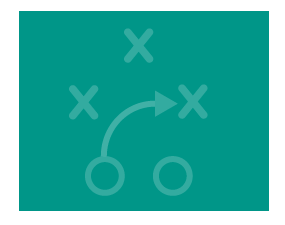
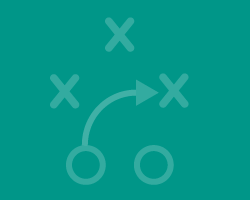
new coach home buttons

diff --git a/dashboard/static/dashboard/css/custom-dashboard.css b/dashboard/static/dashboard/css/custom-dashboard.css
@@ -15,6 +15,63 @@
 	padding-top: 15px;
 }
 
+.coach-button-container {
+	display: flex;
+	justify-content: space-between;
+	padding: 0px 20px 0px 40px;
+	margin: 20px 0px 40px 0px;
+}
+
+.coach-button-container a {
+	height: 100px;
+	width: 125px;
+	display: table;
+}
+
+.coach-button-container a p {
+	display: table-cell;
+	font-size: 18px;
+	color: white;
+	font-weight: bold;
+	text-align: center;
+	vertical-align: middle;
+}
+
+.coach-button-container a#create-formation-link {
+	background-image: url("/static/dashboard/images/create-formation-action-box.png");
+	background-size: cover;
+	background-repeat: no-repeat;
+	background-position: center center;
+}
+
+.coach-button-container a#create-play-link {
+	background-image: url("/static/dashboard/images/create-play-action-box.png");
+	background-size: cover;
+	background-repeat: no-repeat;
+	background-position: center center;
+}
+
+.coach-button-container a#create-quiz-link {
+	background-image: url("/static/dashboard/images/create-quiz-action-box.png");
+	background-size: cover;
+	background-repeat: no-repeat;
+	background-position: center center;
+}
+
+.coach-button-container a#groups-link {
+	background-image: url("/static/dashboard/images/groups-action-box.png");
+	background-size: cover;
+	background-repeat: no-repeat;
+	background-position: center center;
+}
+
+.coach-button-container a#analytics-link {
+	background-image: url("/static/dashboard/images/analytics-action-box.png");
+	background-size: cover;
+	background-repeat: no-repeat;
+	background-position: center center;
+}
+
 .no-border {
 	border: none;
 	border-style: hidden;
@@ -134,24 +191,32 @@ img.menu-icon {
   float: left;
 }
 
-.coach-home .secondary-content-area, .playbook .secondary-content-area, .edit-test .secondary-content-area{
-  width: 100%;
-  height: 290px;
-  border-left: 1px solid #777;
-  border-right: 1px solid #777;
-  border-bottom: 1px solid #777;
-  padding: 0px;
+.coach-home .secondary-content-area, 
+.playbook .secondary-content-area, 
+.edit-test .secondary-content-area {
+	width: 100%;
+	min-height: 200px;
+	max-height: 500px;
+	border-left: 1px solid #777;
+	border-right: 1px solid #777;
+	border-bottom: 1px solid #777;
+	padding: 0px;
 }
 
-.coach-home .top, .playbook .top{
-  margin-bottom: 20px;
+.coach-home .top, 
+.playbook .top {
+	margin-bottom: 20px;
 }
 
-.create-groups .action-boxes, .all-groups .action-boxes, .manage-groups .action-boxes {
+.create-groups .action-boxes, 
+.all-groups .action-boxes, 
+.manage-groups .action-boxes {
 	margin-bottom: 0px;
 }
 
-.create-groups .group-home, .all-groups .group-home, .manage-groups .group-home {
+.create-groups .group-home, 
+.all-groups .group-home, 
+.manage-groups .group-home {
 	margin-bottom: 1%;
 }
 
@@ -724,136 +789,55 @@ input.create-quiz{
   vertical-align: middle;
 }
 
-.alerts-list th{
-  color: #33691E;
-  text-align: center;
-  width: 50%;
-  height: 45px;
-  font-size: 22px;
-}
-
-.alerts-list th span{
-  padding-left: 5px;
-  padding-right: 5px;
-  padding-bottom: 2px;
-  border-bottom: 1px solid #33691E;
-}
-
-.alerts-list td{
-  text-align: center;
-  width: 50%;
-  height: 35px;
-  font-size: 18px;
-}
-
-.analytics-table-row{
-  width: 100%;
-  margin-top: 80px;
-}
-
-.analytics-table-row .table-header{
-  width: 100%;
-  font-size: 24px;
-  text-align: center;
-  margin-bottom: 20px;
-  line-height: 30px;
-  padding-left: 0px;
-  padding-right: 0px;
-  padding-top: 5px;
-  padding-bottom: 5px;
-
-}
-
-.analytics-table-row .table-header span{
-  padding-bottom: 5px;
-  padding-left: 15px;
-  padding-right: 15px;
-  border-bottom: 2px solid #777;
-}
-
-.analytics-graph{
-  height: 200px;
-}
-
-.coach-action-table {
-	width: 100%;
-}
-
-.coach-action-table td {
-	vertical-align: middle;
-}
-
-.coach-action-table td a {
-	display: block;
-	width: 100%;
-	height: 100%;
-	color: #FFF;
-}
-
-.coach-action-table td button{
-	width: 100%;
-	height: 100%;
-	background: none;
-	border: none;
-	padding: 0px;
-	font-size: 18px;
+.alerts-list th {
+	color: #33691E;
 	text-align: center;
-	font-weight: bold;
+	width: 50%;
+	height: 45px;
+	font-size: 22px;
 }
 
-.coach-action-table td.first {
-	background-color: #558B2F;
-	background-image: url("/static/dashboard/images/create-formation-action-box.png");
-	-webkit-background-size: cover;
-	-moz-background-size: cover;
-	-o-background-size: cover;
-	background-size: cover;
-	background-repeat: no-repeat;
-	background-position: center center;
+.alerts-list th span {
+	padding-left: 5px;
+	padding-right: 5px;
+	padding-bottom: 2px;
+	border-bottom: 1px solid #33691E;
 }
 
-.coach-action-table td.second {
-	background-color: #009688;
-	background-image: url("/static/dashboard/images/create-play-action-box.png");
-	-webkit-background-size: cover;
-	-moz-background-size: cover;
-	-o-background-size: cover;
-	background-size: cover;
-	background-repeat: no-repeat;
-	background-position: center center;
+.alerts-list td {
+	text-align: center;
+	width: 50%;
+	height: 35px;
+	font-size: 18px;
 }
 
-.coach-action-table td.third {
-	background-color: #FF9800;
-	background-image: url("/static/dashboard/images/create-quiz-action-box.png");
-	-webkit-background-size: cover;
-	-moz-background-size: cover;
-	-o-background-size: cover;
-	background-size: cover;
-	background-repeat: no-repeat;
-	background-position: center center;
+.analytics-table-row {
+	width: 100%;
+	margin-top: 40px;
 }
 
-.coach-action-table td.fourth {
-	background-color: #607D86;
-	background-image: url("/static/dashboard/images/groups-action-box.png");
-	-webkit-background-size: cover;
-	-moz-background-size: cover;
-	-o-background-size: cover;
-	background-size: cover;
-	background-repeat: no-repeat;
-	background-position: center center;
+.analytics-table-row .table-header {
+	width: 100%;
+	font-size: 24px;
+	text-align: center;
+	margin-bottom: 20px;
+	line-height: 30px;
+	padding-left: 0px;
+	padding-right: 0px;
+	padding-top: 5px;
+	padding-bottom: 5px;
+
 }
 
-.coach-action-table td.fifth {
-	background-color: #42A5F5;
-	background-image: url("/static/dashboard/images/analytics-action-box.png");
-	-webkit-background-size: cover;
-	-moz-background-size: cover;
-	-o-background-size: cover;
-	background-size: cover;
-	background-repeat: no-repeat;
-	background-position: center center;
+.analytics-table-row .table-header span {
+	padding-bottom: 5px;
+	padding-left: 15px;
+	padding-right: 15px;
+	border-bottom: 2px solid #777;
+}
+
+.analytics-graph {
+	height: 200px;
 }
 
 .playerbook .table-wrapper {

diff --git a/dashboard/templates/dashboard/coachhome.html b/dashboard/templates/dashboard/coachhome.html
@@ -5,46 +5,23 @@
 {% block content %}
 	<div class="coach-home">
 		<div class="content-container">
-			<div class="coach-action-row action-boxes">
-				<table class="coach-action-table">
-					<tbody>
-						<tr>
-							<td class="first">
-								<button onclick="clickButton(0)">
-									CREATE<br />FORMATION
-								</button>
-							</td>
-							<td class="blank">
-							</td>
-							<td class="second">
-								<button onclick="clickButton(1)">
-									CREATE<br />PLAY
-								</button>
-							</td>
-							<td class="blank">
-							</td>
-							<td class="third">
-								<button onclick="clickButton(2)">
-									CREATE<br />QUIZ
-								</button>
-							</td>
-							<td class="blank">
-							</td>
-							<td class="fourth">
-								<button onclick="clickButton(3)">
-									GROUPS
-								</button>
-							</td>
-							<td class="blank"></td>
-							<td class="fifth">
-								<button onclick="clickButton(4)">
-									ANALYTICS
-								</button>
-							</td>
-						</tr>
-					</tbody>
-				</table>
-			</div><!--coach-action-row-->
+			<div class="coach-button-container col-md-12">
+				<a href="/quiz/create_formation" id="create-formation-link">
+					<p>CREATE<br />FORMATION</p>
+				</a>
+				<a href="/quiz/create_play" id="create-play-link">
+					<p>CREATE<br />PLAY</p>
+				</a>
+				<a href="/quizzes/create" id="create-quiz-link">
+					<p>CREATE<br />QUIZ</p>
+				</a>
+				<a href="/groups" id="groups-link">
+					<p>GROUPS</p>
+				</a>
+				<a href="/analytics" id="analytics-link">
+					<p>ANALYTICS</p>
+				</a>
+			</div>
 			<div class="col-md-7 no-border">
 				<div class="dash-col">
 					<div class="dash-header">
